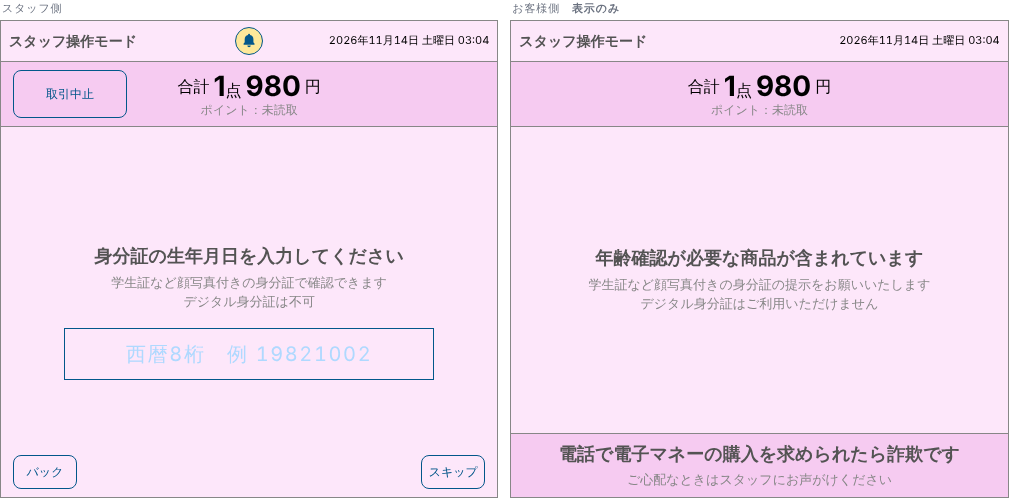
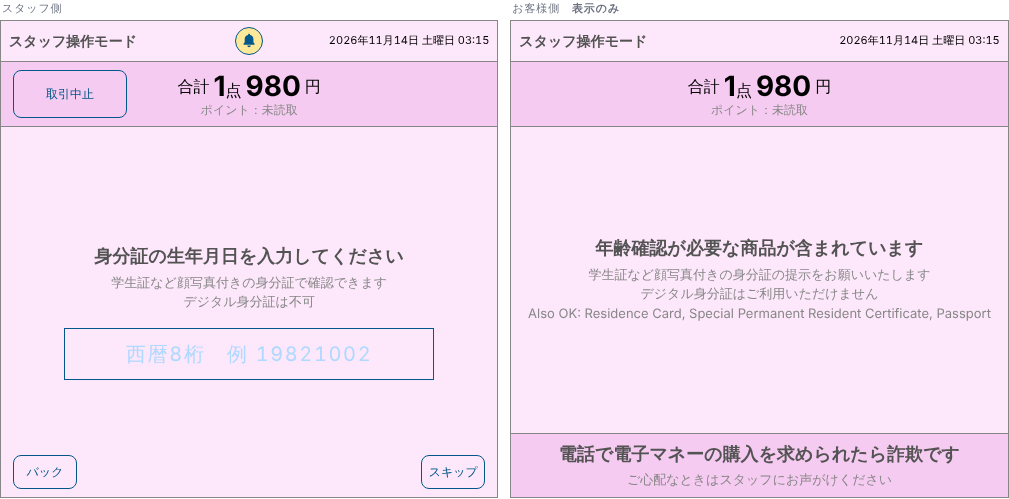
在留カード・特別永住者証明書・パスポートを法令の年確でも認め、お客様側に英語で添える
Claude-Session: https://claude.ai/code/session_01UEhnZeHTmT3C1d63jmNmpP

Changed region(s): [[0.5223, 0.481, 0.9832, 0.6613], [0.9832, 0.0601, 1.0, 0.0902], [0.4609, 0.0601, 0.4916, 0.0902]]

diff --git a/pos/web/src/view.ts b/pos/web/src/view.ts
@@ -156,7 +156,8 @@ function idCard(reg: number, age: number, v: StaffView, a: (n: Action) => Gate):
   const st = a("check_id");
   // 法令の年齢制限（酒・たばこ）は免許証・マイナンバーカード、店舗が任意で決めた年齢制限だけなら学生証など顔写真付きの身分証も可。
   // デジタル身分証は偽造が容易なので、どちらでも認めない
-  const ids = v.age_official_id ? "運転免許証またはマイナンバーカードで確認してください" : "学生証など顔写真付きの身分証で確認できます<br>デジタル身分証は不可";
+  // 外国人の在留カード・特別永住者証明書・パスポートは法令の年確でも認める
+  const ids = v.age_official_id ? "運転免許証またはマイナンバーカードで確認してください<br>在留カード・特別永住者証明書・パスポートも可" : "学生証など顔写真付きの身分証で確認できます<br>デジタル身分証は不可";
   return `<div class="point-screen id-entry">
       ${msg("身分証の生年月日を入力してください", ids)}
       ${padField(reg, "staff", "birth", padValue.get(padValueKey(reg, "birth")) ?? "", "西暦8桁　例 19821002", "身分証の生年月日（西暦8桁）", undefined, "birth-field", st)}
@@ -791,6 +792,9 @@ function ageWait(age: number): string {
     </div>`;
 }
 
+/** 外国人の身分証（法令の年確でも認める）。並べると日本人にも外国人にも冗長なので、日本語の案内の下に英語で添える */
+const FOREIGN_IDS = `<span lang="en" data-i18n-skip>Also OK: Residence Card, Special Permanent Resident Certificate, Passport</span>`;
+
 /** 年確のあいだのお客様側。スタッフが「する」を選んだら身分証の提示をお願いし、
  *  スタッフが生年月日を打ち始めたら（テンキーを開いたら）判定中であることと、個人情報を残さないことを伝える */
 function ageNote(reg: number, v: StaffView): string {
@@ -798,9 +802,12 @@ function ageNote(reg: number, v: StaffView): string {
   const typing = padEntry.get(`${reg}:staff`)?.target === "birth" || !!padValue.get(padValueKey(reg, "birth"));
   return typing
     ? pairNote("生年月日から年齢を判定しています", "端末は個人情報を保存しません")
-    : v.age_official_id
-      ? pairNote("年齢確認が必要な商品が含まれています", "免許証またはマイナンバーカードの提示をお願いいたします")
-      : `<div class="point-screen pair-note">${msg("年齢確認が必要な商品が含まれています", "学生証など顔写真付きの身分証の提示をお願いいたします<br>デジタル身分証はご利用いただけません")}</div>`;
+    : `<div class="point-screen pair-note">${msg(
+        "年齢確認が必要な商品が含まれています",
+        v.age_official_id
+          ? `免許証またはマイナンバーカードの提示をお願いいたします<br>${FOREIGN_IDS}`
+          : `学生証など顔写真付きの身分証の提示をお願いいたします<br>デジタル身分証はご利用いただけません<br>${FOREIGN_IDS}`,
+      )}</div>`;
 }
 
 function ageStep(reg: number, v: StaffView, side: Side, a: (n: Action) => Gate): string {

diff --git a/pos/web/src/i18n.ts b/pos/web/src/i18n.ts
@@ -201,6 +201,7 @@ const DICT: Record<string, string> = {
   運転免許証またはマイナンバーカードで確認してください: "Check a driver's licence or My Number Card",
   学生証など顔写真付きの身分証で確認できます: "A photo ID such as a student ID is accepted",
   デジタル身分証は不可: "No digital IDs",
+  "在留カード・特別永住者証明書・パスポートも可": "Residence Card, Special Permanent Resident Certificate or Passport also OK",
   生年月日から年齢を判定しています: "Checking your age from your date of birth",
   端末は個人情報を保存しません: "This terminal does not store personal information",
   身分証をお返しください: "Return the ID",
